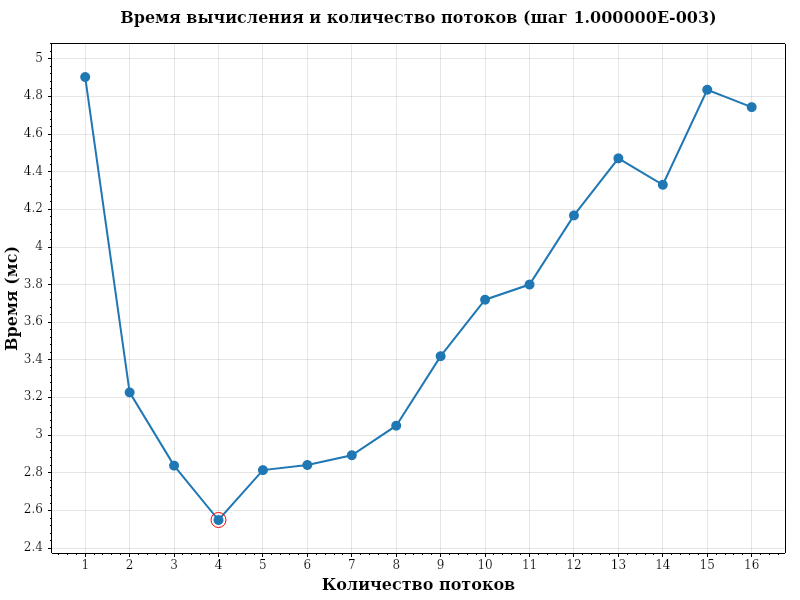
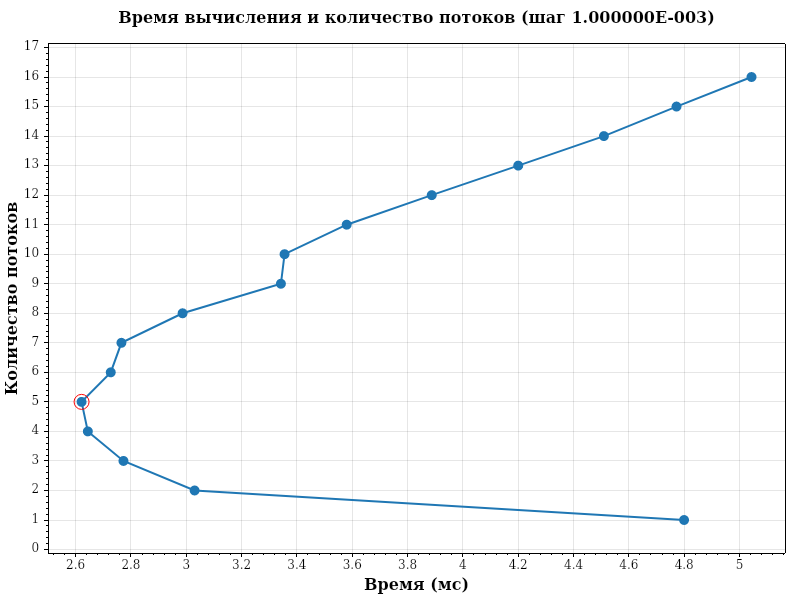
Исправлены оси графика по заданию

Changed region(s): [[0.0, 0.06, 0.9688, 0.99], [0.1562, 0.0, 0.9062, 0.06]]

diff --git a/task15/Program.cs b/task15/Program.cs
@@ -60,18 +60,19 @@ double bestSpeedup = (singleAvg - best.time) / singleAvg * 100;
 System.Console.WriteLine($"Ускорение: {bestSpeedup:F1}%");
 
 var plt = new ScottPlot.Plot();
-var xs = results.Select(r => (double)r.threads).ToArray();
-var ys = results.Select(r => r.time).ToArray();
+
+var xs = results.Select(r => r.time).ToArray();
+var ys = results.Select(r => (double)r.threads).ToArray();
 
 var scatter = plt.Add.Scatter(xs, ys);
 scatter.MarkerSize = 10;
 scatter.LineWidth = 2;
 
 plt.Title($"Время вычисления и количество потоков (шаг {selectedStep:E})");
-plt.XLabel("Количество потоков");
-plt.YLabel("Время (мс)");
+plt.XLabel("Время (мс)");
+plt.YLabel("Количество потоков");
 
-plt.Add.Marker(best.threads, best.time, color: ScottPlot.Colors.Red, size: 15, shape: ScottPlot.MarkerShape.OpenCircle);
+plt.Add.Marker(best.time, best.threads, color: ScottPlot.Colors.Red, size: 15, shape: ScottPlot.MarkerShape.OpenCircle);
 plt.SavePng("graph.png", 800, 600);
 
 string report = $@"=== Результаты оптимизации ===